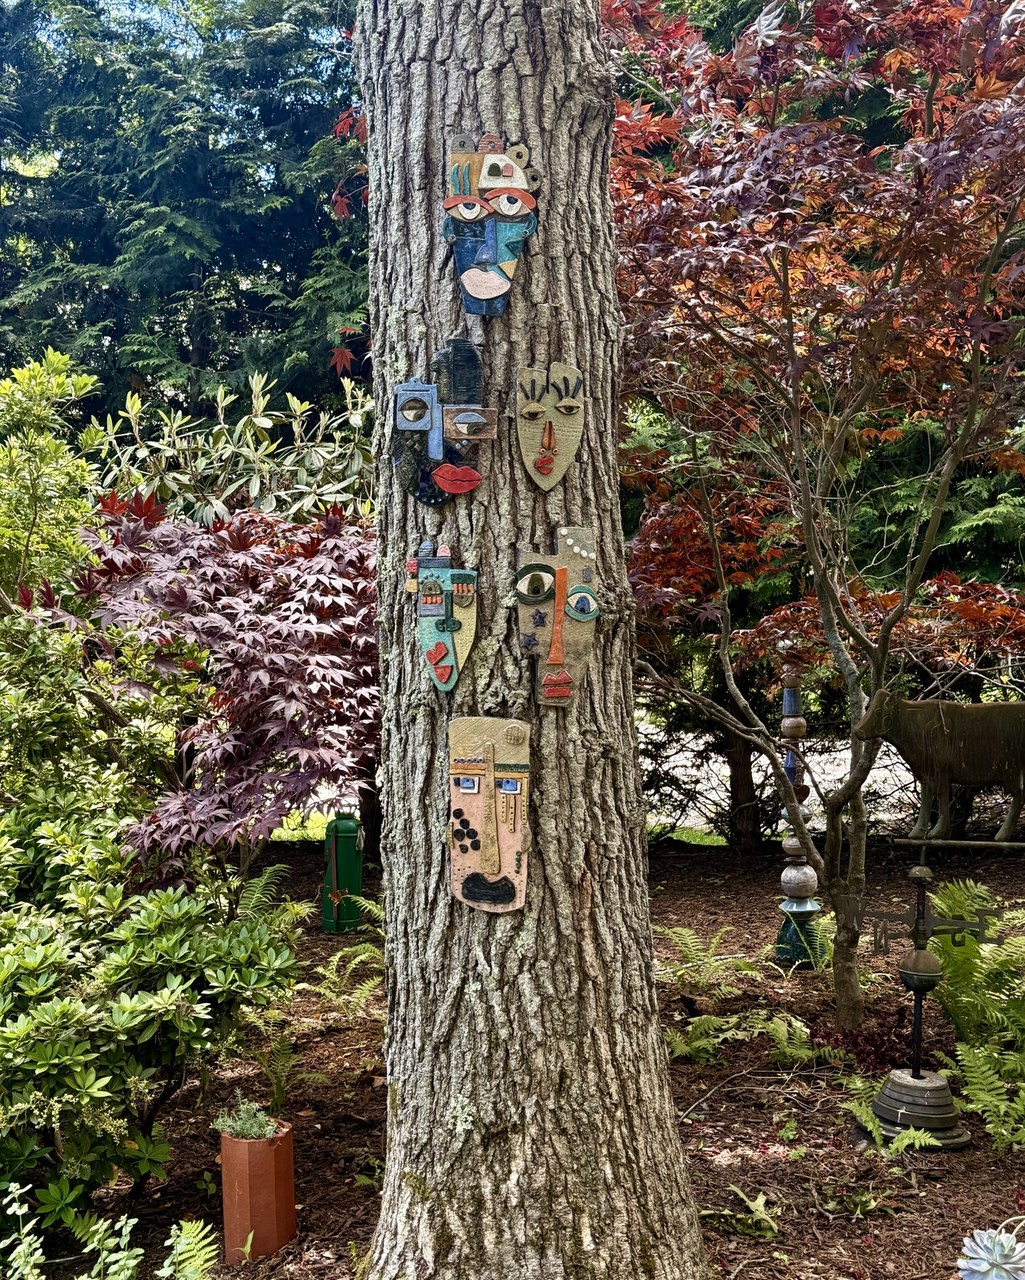
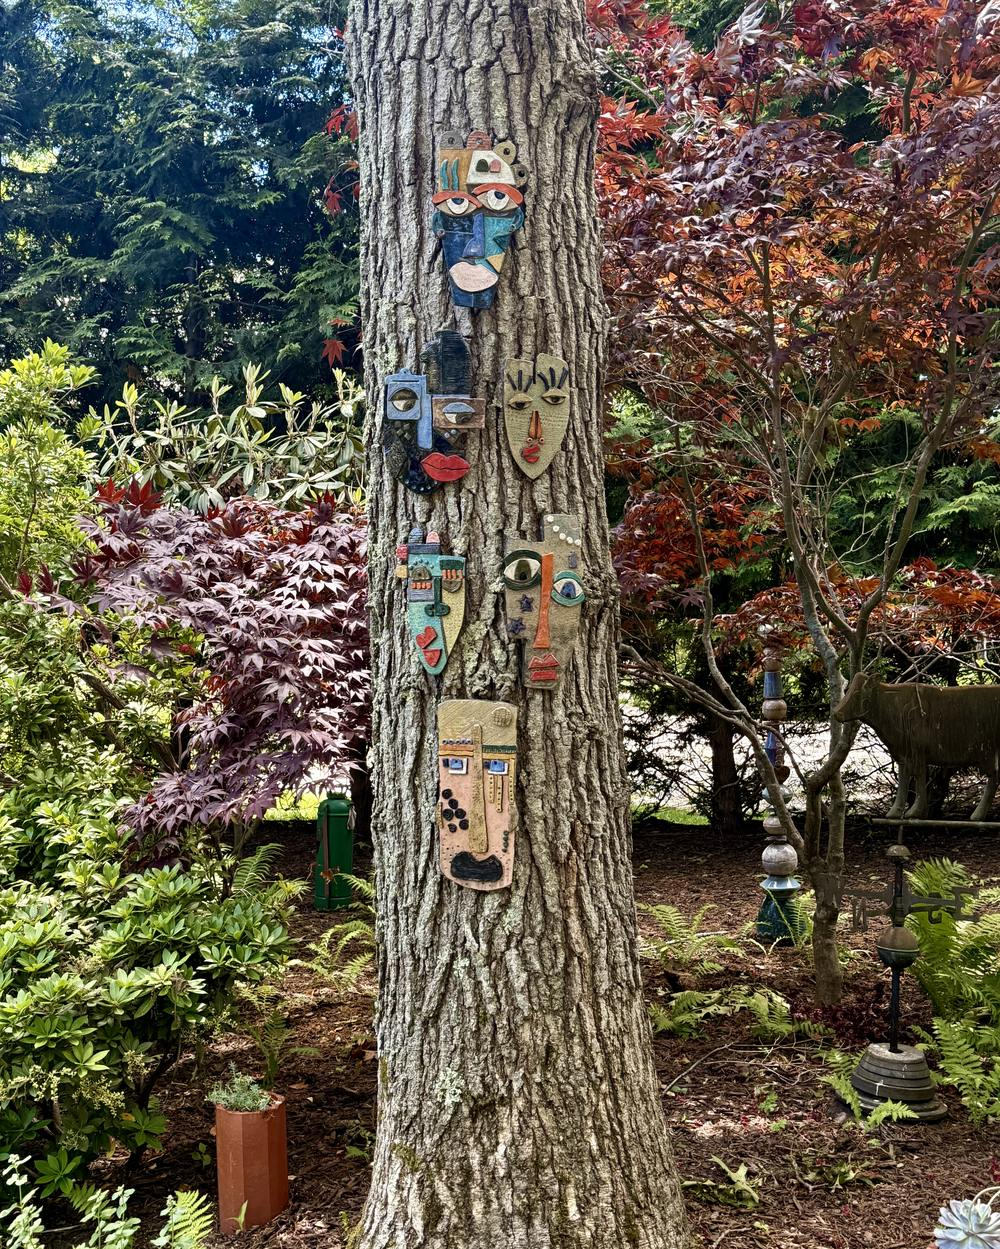
Serve right-sized, prioritized hero photo (phone gets ~200KB vs 660KB)

diff --git a/index.html b/index.html
@@ -30,7 +30,7 @@
       <h1 class="hero-title">Pot<br>Lady<br>Studios</h1>
       <p class="hero-tag">Handmade ceramics born from vintage finds and garden landscapes, by Sharyn Kohen.</p>
     </div>
-    <div class="hero-image"><img src="images/garden/IMG_hero_face_masks_wide.jpg" alt="Hand-built ceramic face masks on a tree in the garden by Sharyn Kohen"></div>
+    <div class="hero-image"><img src="images/garden/IMG_hero_face_masks_wide.jpg" srcset="images/garden/IMG_hero_face_masks_wide_sm.jpg 680w, images/garden/IMG_hero_face_masks_wide.jpg 1000w" sizes="(max-width: 880px) 92vw, 45vw" width="1000" height="1249" fetchpriority="high" decoding="async" alt="Hand-built ceramic face masks on a tree in the garden by Sharyn Kohen"></div>
   </header>
 
   <section class="work" id="work">